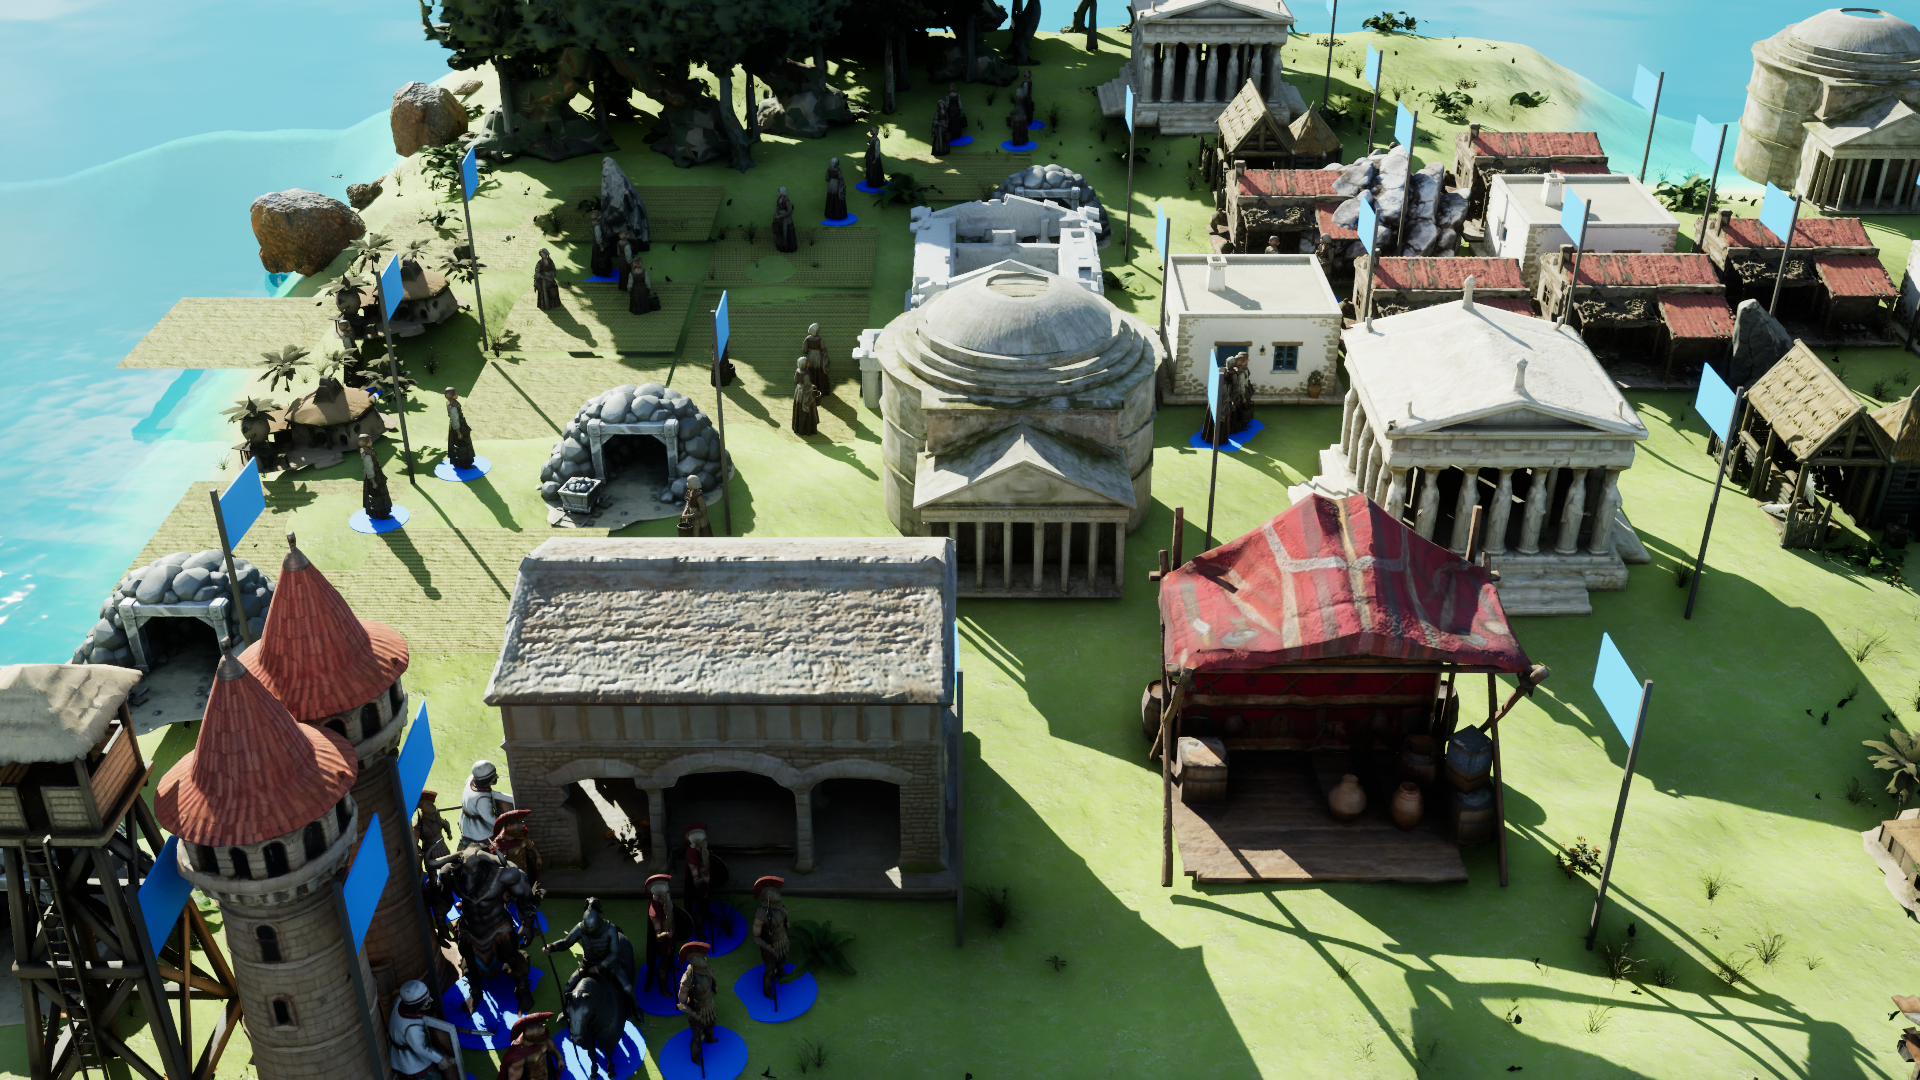
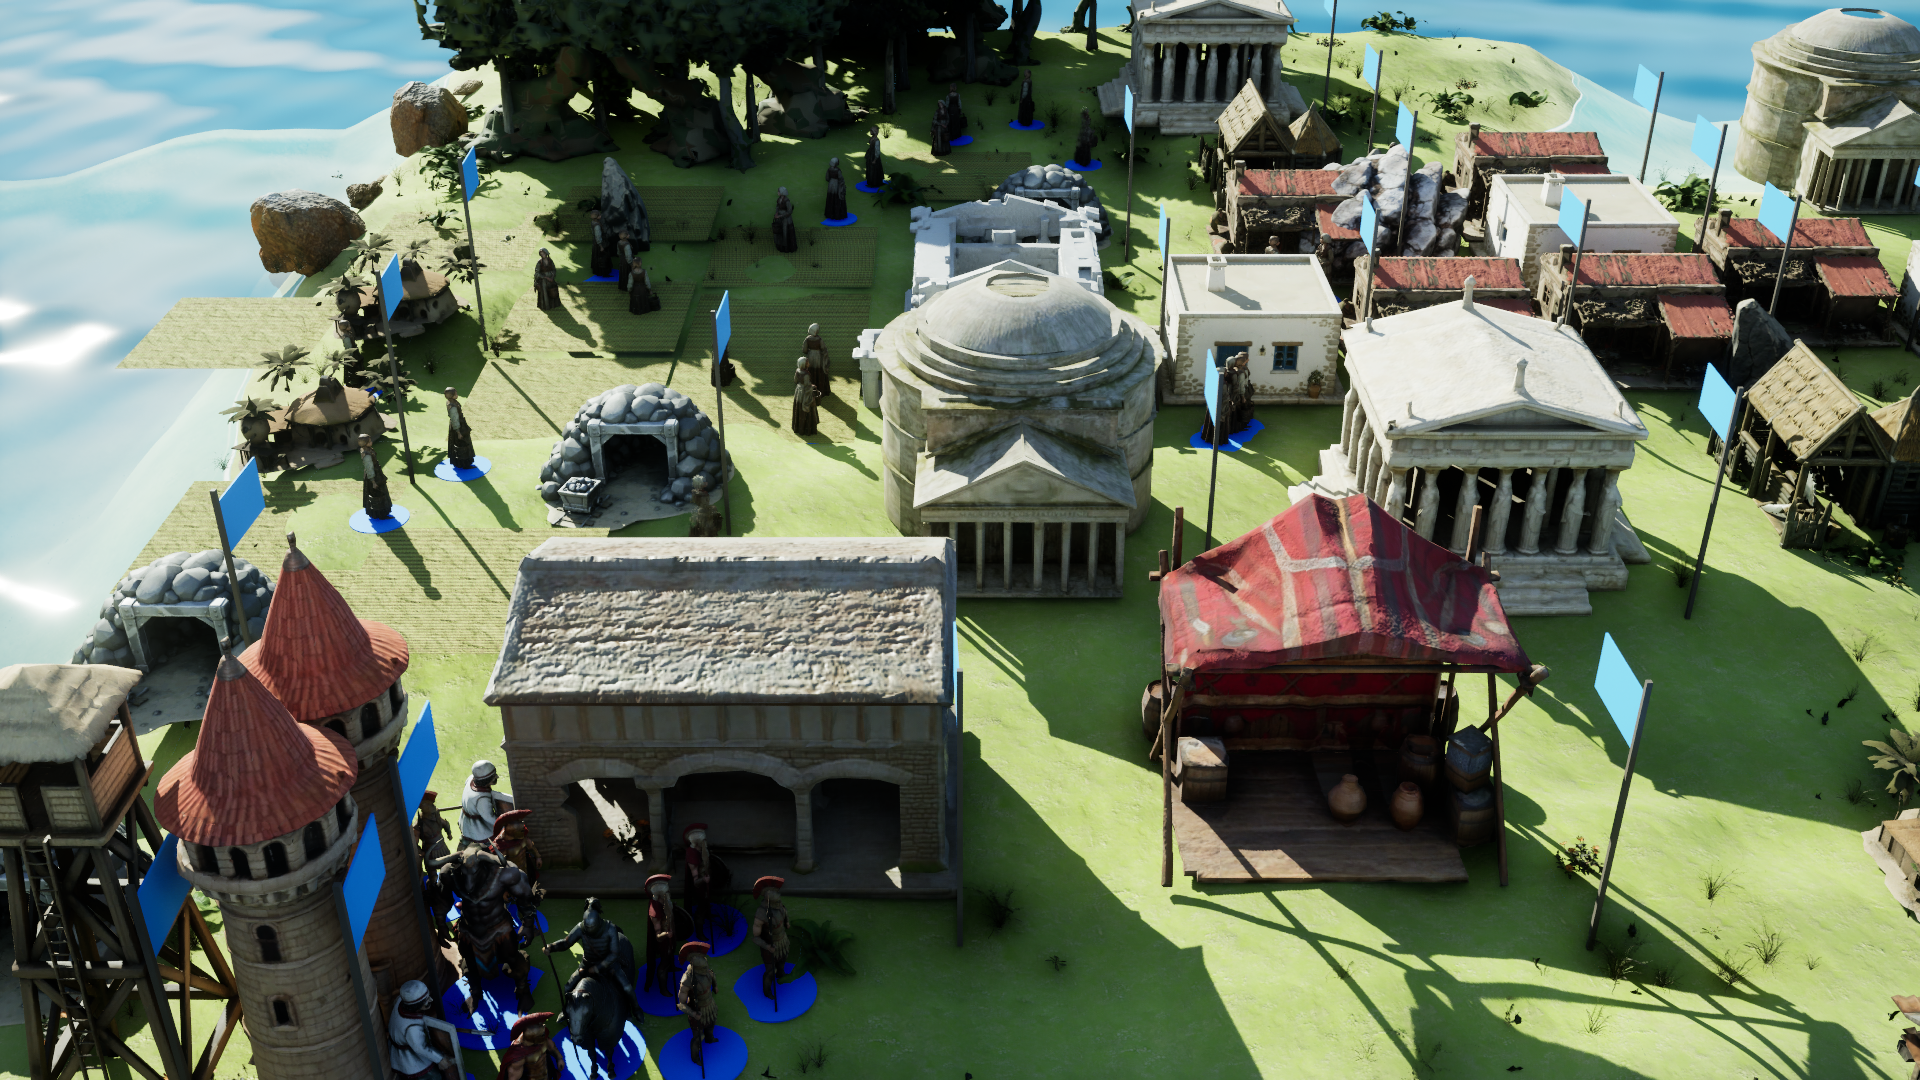
unreal: U1 capturas com o mar novo e resposta 0008 atualizada

diff --git a/art/meshy/canal/respostas/0008.md b/art/meshy/canal/respostas/0008.md
@@ -15,8 +15,7 @@ alterar `src/`. Versões: Unreal Engine 5.8.3, driver NVIDIA 617.42, MSVC 14.51.
 - **Terreno**: Landscape 1009² com material próprio de 4 camadas (grama, terra, areia, rocha) a partir de fotos PBR
   CC0 do Poly Haven (cor + normal + rugosidade), mistura por altura, antirrepetição por duas escalas e manchas de cor
   em grande escala; a grama foi puxada para o verde (a foto é amarelada à luz direta).
-- **Mar**: Water do plugin (`WaterBodyCustom`) com cor de águas rasas, espuma e brilho. **Sem ondas quebrando na margem**:
-  o `WaterBodyOcean` + `WaterZone` não funcionou com Landscape importado por código (ver 0006); fica como pendência.
+- **Mar** (atualizado em 14/10): material próprio `M_Mar` (`u1_mar.py`) num plano: ondas senoidais cruzadas com normal analítica, cor por profundidade (turquesa raso → azul fundo), linha de espuma pulsando na margem, reflexo do céu e brilho do sol. Substituiu o `WaterBodyCustom`; o Ocean/WaterZone do plugin segue sem funcionar com Landscape importado por código. Captura: `u1-mar.png`.
 - **Vegetação**: árvores/arbustos/azeitona do Meshy como nós de recurso (HISM, vento por material), ~13 mil
   instâncias de capim, flores, samambaias e rochas (Poly Haven CC0, HISM, sem tocar nos nós da simulação nem nos inícios).
 - **Cidade**: 21 tipos de edifício com modelos reais do Meshy (PBR: cor, normal, rugosidade), campos de cultivo com
@@ -77,7 +76,7 @@ Unity: a comparação é por argumento, não por medição.
   `ImportLandscape` devolve `AActor*`.
 
 ## O que falta (não bloqueia a decisão)
-- Mar com ondas/espuma na margem (Ocean/WaterZone); cavalaria, criaturas, heróis e navios animados (hoje estáticos); a
+- Cavalaria, criaturas, heróis e navios sem esqueleto (só balanço procedural ao andar e avanço no golpe; animação de verdade exige rig por espécie); a
   caravana e o mercador (`caravan`, `merchant`) ainda sem visual; luz mais baixa/dourada e variação de céu;
   contraste das fileiras dos campos; ciclo de dia; efeitos (poeira, fogo, golpes); frente da malha de cada unidade
   (yaw −90 assumido; algumas lanças/escudos olham para o lado errado); VRAM por processo (nvidia-smi só dá o total).
